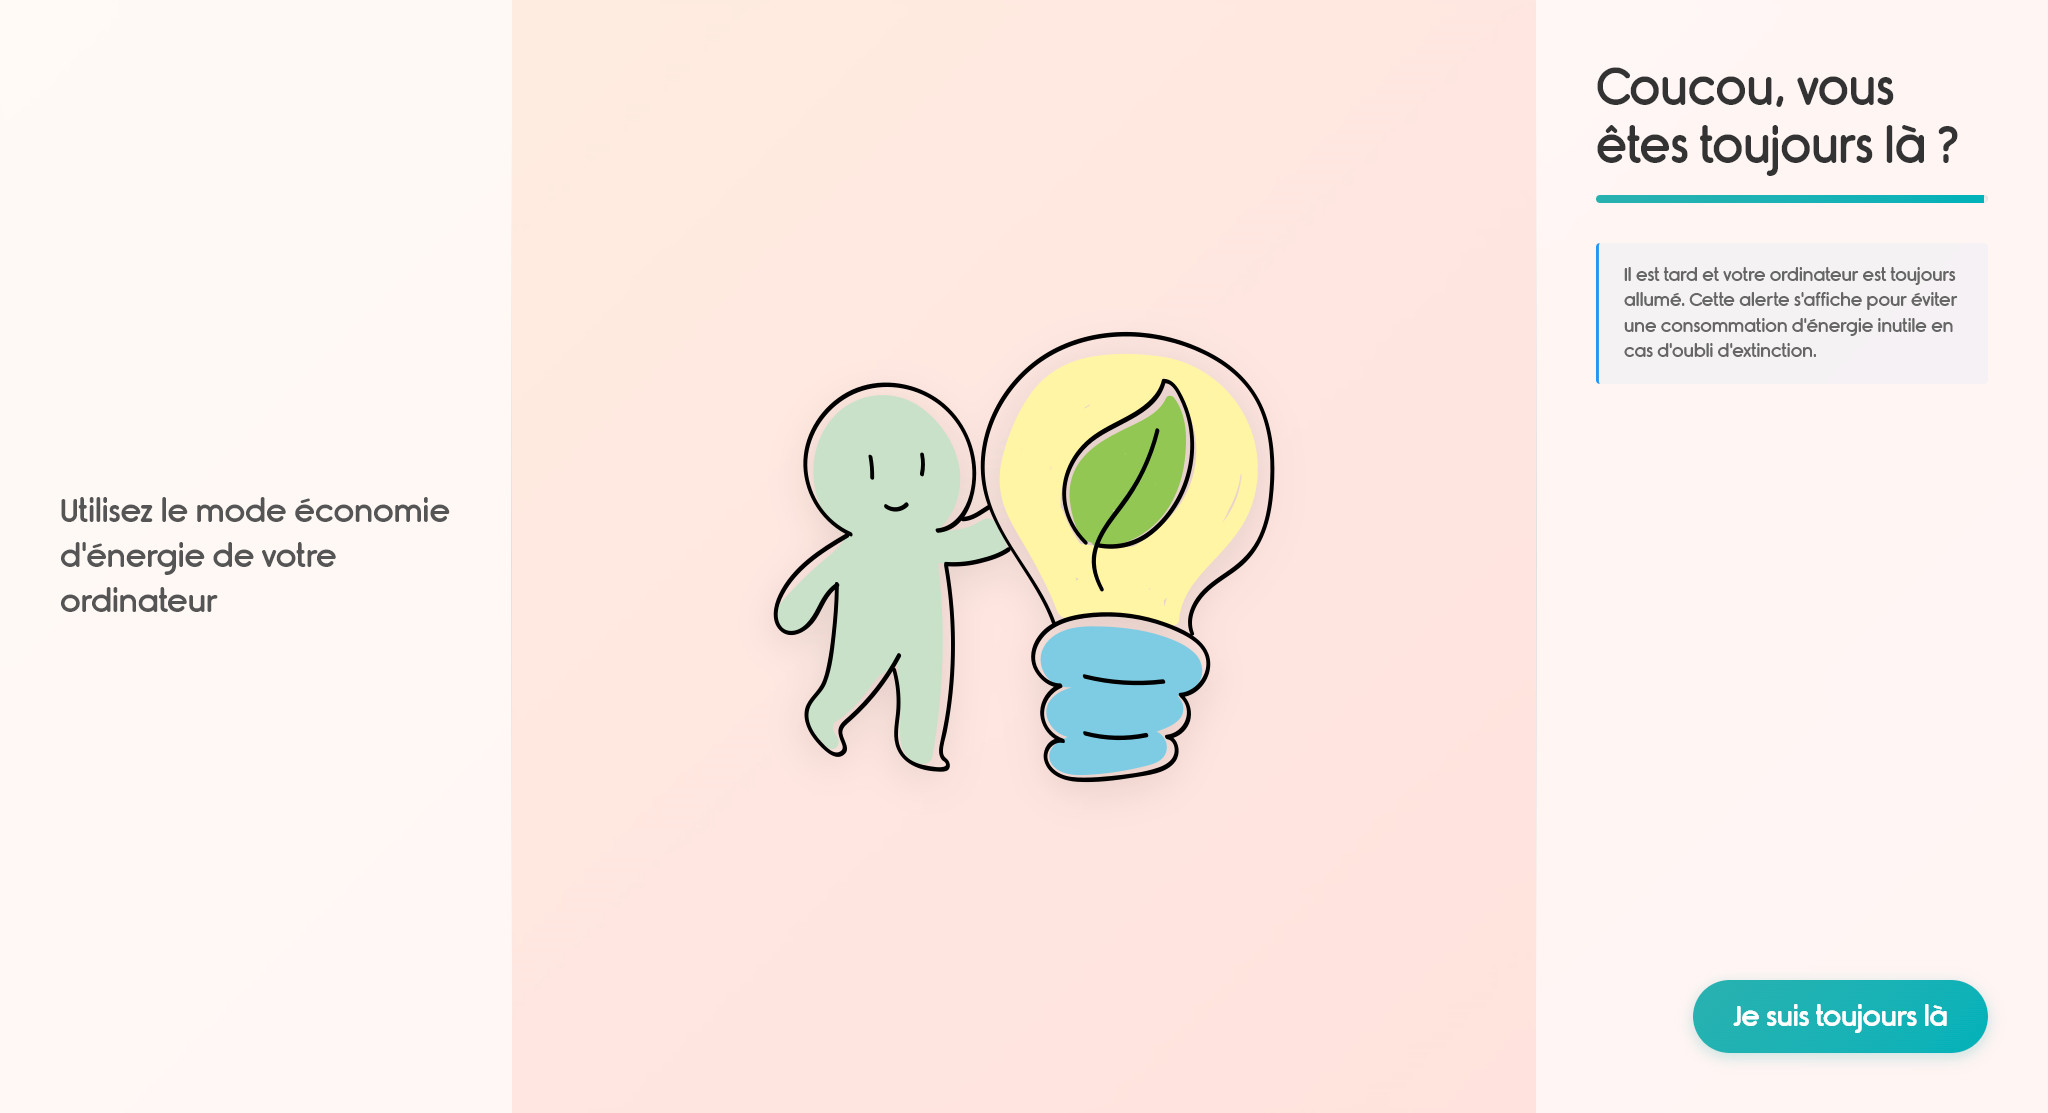
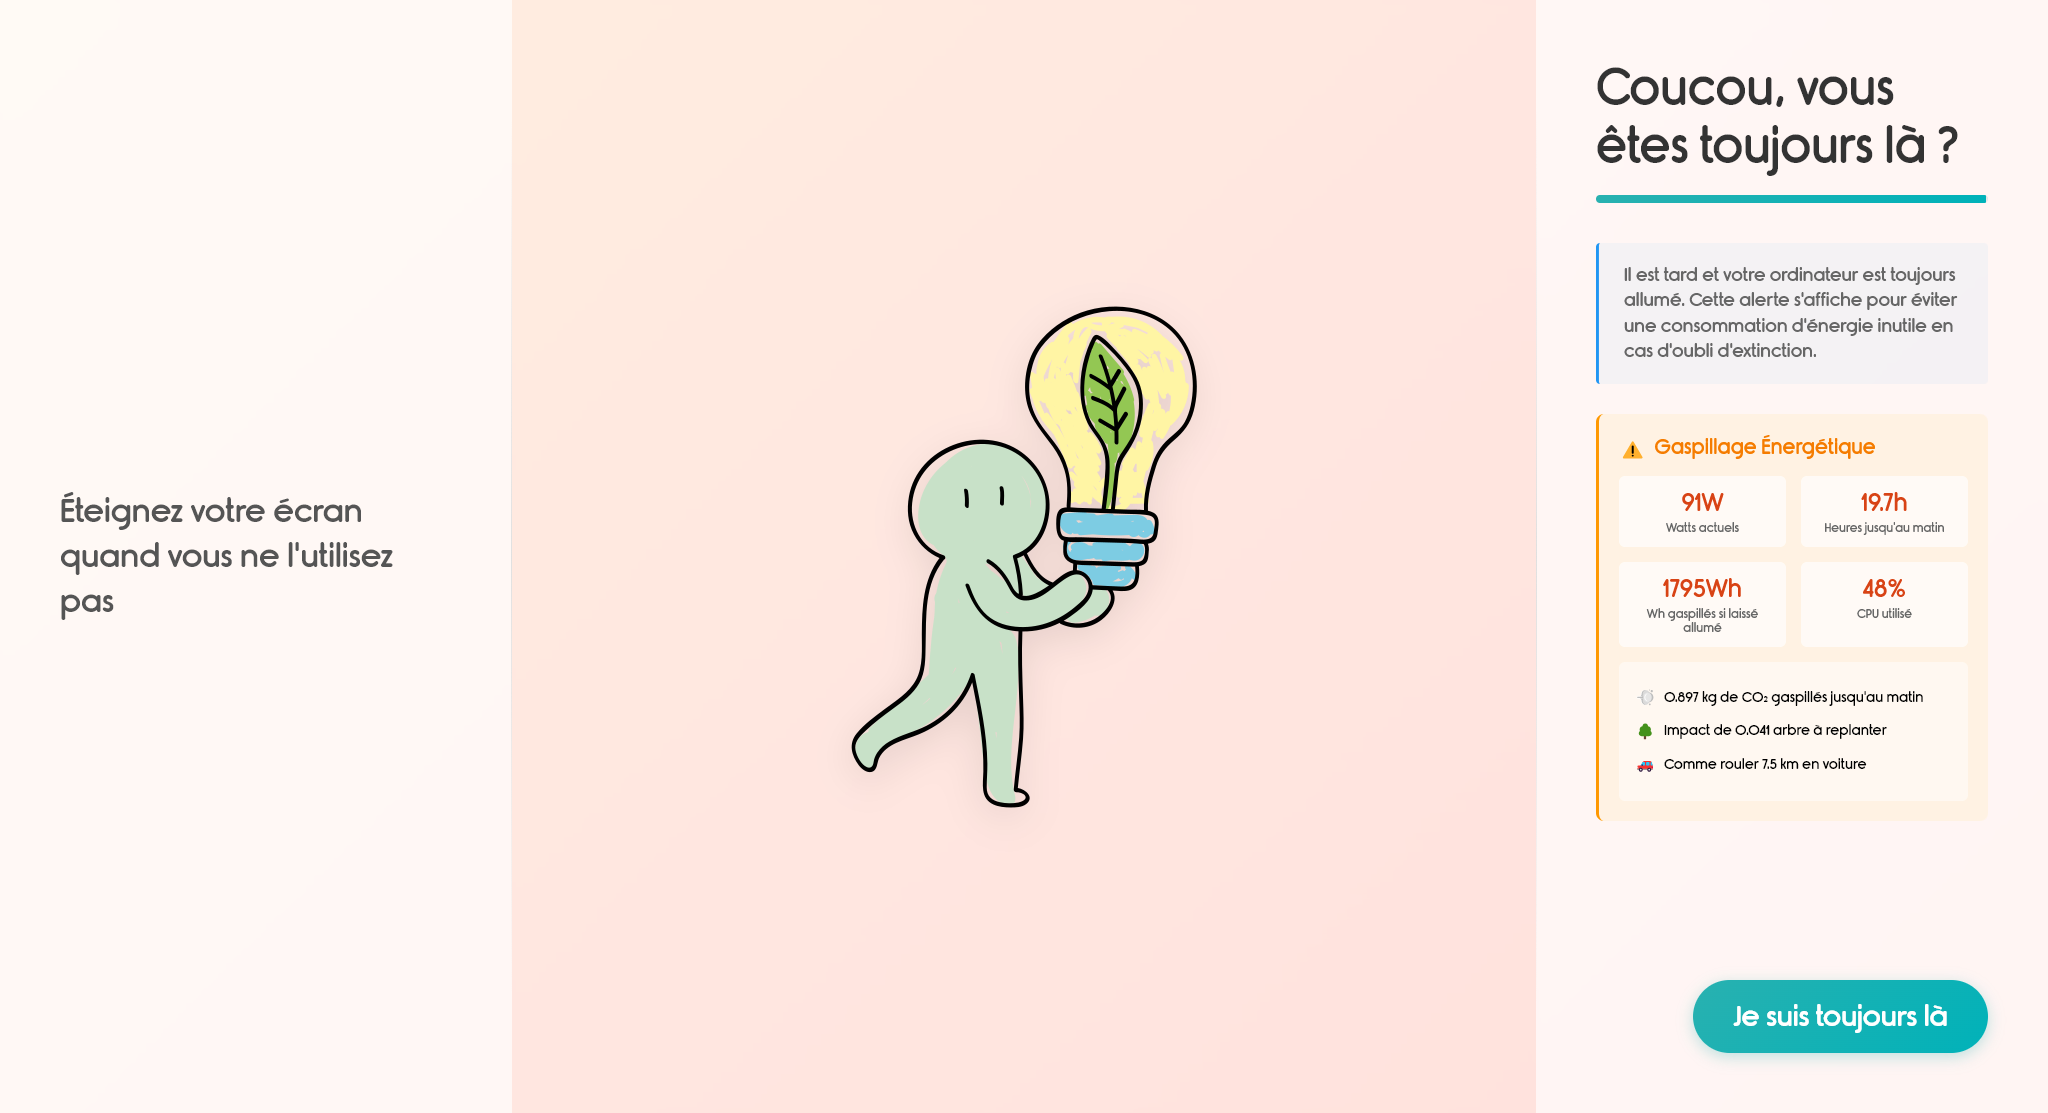
Mise à jour du README

diff --git a/README.md b/README.md
@@ -1,12 +1,12 @@
 # AutoEcoShutdown
 
-![Version](https://img.shields.io/badge/version-1.0.0-blue)
+![Version](https://img.shields.io/badge/version-1.1.0-blue)
 ![Electron](https://img.shields.io/badge/Electron-28.1.0-green)
 ![License](https://img.shields.io/badge/license-ISC-orange)
 
 ![Interface de l'application](docs/screenshot.png)
 
-Une application élégante et intuitive pour gérer l'extinction automatique de votre ordinateur, avec des conseils d'économie d'énergie.
+Une application élégante et intuitive pour gérer l'extinction automatique de votre ordinateur, avec des conseils d'économie d'énergie et un tableau de bord écologique montrant l'impact du gaspillage énergétique en temps réel.
 
 ## 🌟 Fonctionnalités
 
@@ -14,6 +14,10 @@ Une application élégante et intuitive pour gérer l'extinction automatique de 
 - 💡 Conseils d'économie d'énergie avec illustrations
 - 🎨 Interface moderne et élégante
 - 🖥 Application portable (pas d'installation nécessaire)
+- ⚠ **Nouveau !** Tableau de bord du gaspillage énergétique en temps réel
+- 🌍 **Nouveau !** Calcul de l'impact écologique (CO₂, équivalence voiture/arbres)
+- 📊 **Nouveau !** Monitoring de la consommation système réelle
+- 🌙 **Nouveau !** Projection du gaspillage jusqu'au matin
 
 ## 🚀 Installation
 
@@ -51,10 +55,11 @@ Ce projet est sous licence ISC. Voir le fichier `LICENSE` pour plus de détails.
 ## 🙏 Remerciements
 
 - Police Rimouski pour l'élégance typographique
-- Chart.js pour le graphique
+- Chart.js pour les graphiques temps réel
 - Electron pour le framework d'application desktop
+- systeminformation pour les données système réelles
 - [Écologie stickers](https://www.flaticon.com/fr/stickers-gratuites/ecologie) créés par [paulalee](https://www.flaticon.com/fr/auteurs/paulalee) - [Flaticon](https://www.flaticon.com/fr/)
 
 ---
 
-Développé avec ❤ pour une meilleure gestion de l'énergie 
+Développé avec ❤ pour une meilleure gestion de l'énergie et la préservation de notre planète 🌍
